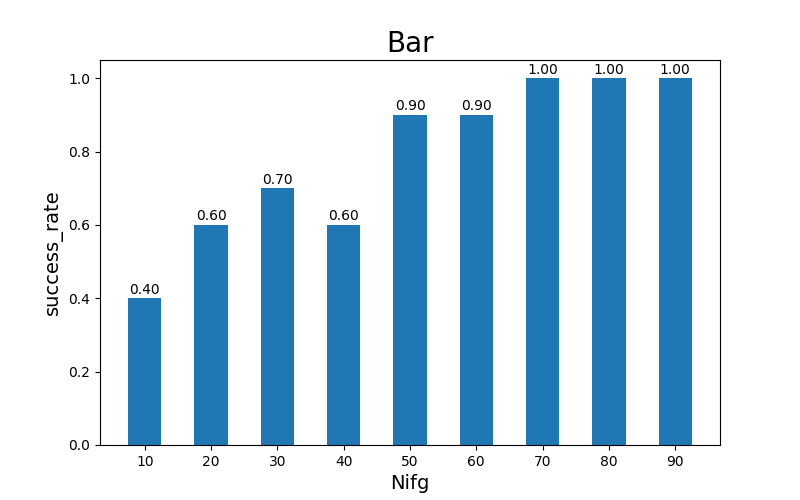
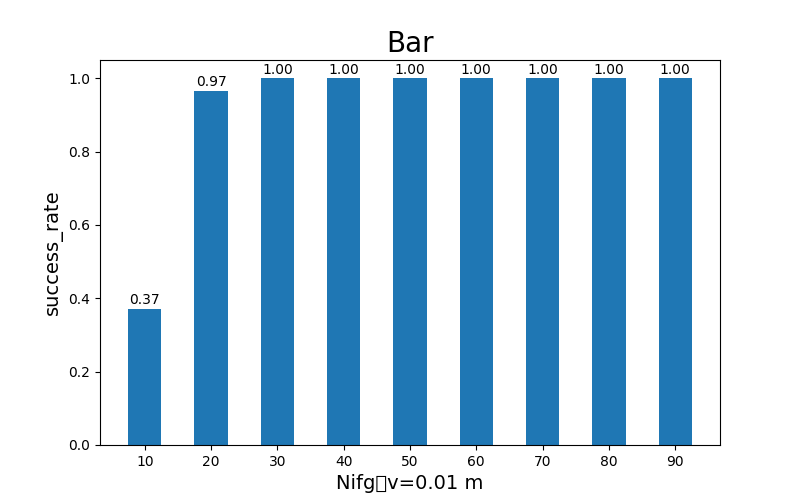
experiment of 'v' about periodogram

diff --git a/template/lab_nifg_v.py b/template/lab_nifg_v.py
@@ -1,0 +1,112 @@
+import scientific_research_with_python_demo.scientific_research_with_python_demo.utils as af
+from scientific_research_with_python_demo.scientific_research_with_python_demo.periodogram_main import periodogram
+import numpy as np
+import time
+from scientific_research_with_python_demo.scientific_research_with_python_demo.data_plot import bar_plot
+
+# Nifg 的实验
+T1 = time.perf_counter()
+
+# ------------------------------------------------
+# initial parameters
+# ------------------------------------------------
+WAVELENGTH = 0.0056  # [unit:m]
+Nifg_orig = np.arange(10, 100, 10)
+v = np.arange(0.01, 0.02, 0.01)  # [mm/year] 减少v，也可以改善估计结果，相当于减少了重访周期
+h_orig = 30  # [m]，整数 30 循环迭代搜索结果有问题
+noise_level = 0.0
+# noise_phase = af.sim_phase_noise(noise_level, Nifg)
+step_orig = np.array([1.0, 0.001])
+std_param = np.array([40, 0.03])
+param_orig = np.array([0, 0])
+param_name = ["height", "velocity"]
+
+# calculate the number of search
+Num_search1 = af.compute_Nsearch(std_param[0], step_orig[0])
+Num_search2 = af.compute_Nsearch(std_param[1], step_orig[1])
+Num_search = np.array([Num_search1, Num_search2])
+
+success_rate = np.zeros(len(Nifg_orig))
+for j in range(len(v)):
+    v_orig = v[j]
+    print("v = ", v_orig)
+    for i in range(len(Nifg_orig)):
+        iteration = 0
+        success = 0
+        Nifg = Nifg_orig[i]
+        print("Nifg = ", Nifg)
+        while iteration < 100:
+            iteration += 1
+            # simulate baseline
+            normal_baseline = np.random.normal(size=(1, Nifg)) * 333
+            # print(normal_baseline)
+            time_baseline = np.arange(1, Nifg + 1, 1).reshape(1, Nifg)  # 减小重访周期 dt 能明显改善结果
+            # print(time_baseline)
+            # normal_baseline = np.array(
+            #     [
+            #         [
+            #             -235.25094786,
+            #             -427.79160933,
+            #             36.37235105,
+            #             54.3278281,
+            #             -87.27348344,
+            #             25.31470275,
+            #             201.85998322,
+            #             92.22902115,
+            #             244.66603228,
+            #             -89.80792772,
+            #             12.17022031,
+            #             -23.71273067,
+            #             -241.58736045,
+            #             -184.03477855,
+            #             -15.97933883,
+            #             -116.39428378,
+            #             -545.53546226,
+            #             -298.89492777,
+            #             -379.2293736,
+            #             289.30702061,
+            #         ]
+            #     ]
+            # )
+            # calculate the input parameters of phase
+            v2ph = af.v_coef(time_baseline).T
+            h2ph = af.h_coef(normal_baseline).T
+            # print(h2ph)
+            par2ph = [h2ph, v2ph]
+            # simulate noise phase
+            noise_phase = af.sim_phase_noise(noise_level, Nifg)
+            # phase_obsearvation simulate
+            phase_obs = af.sim_arc_phase(v_orig, h_orig, noise_level, v2ph, h2ph, noise_phase)
+            # print(phase_obs)
+            # normalize the intput parameters
+            data_set = af.input_parameters(par2ph, step_orig, Num_search, param_orig, param_name)
+            # print(data_set)
+            # print(data_set["velocity"]["Num_search"])
+            # ------------------------------------------------
+            # main loop of searching
+            # ------------------------------------------------
+            count = 0
+            est_param = {}
+            while count <= 1 and data_set["velocity"]["step_orig"] > 1.0e-8 and data_set["height"]["step_orig"] > 1.0e-4:
+                # search the parameters
+                est_param, best = periodogram(data_set, phase_obs)
+                # update the parameters
+                for key in param_name:
+                    data_set[key]["param_orig"] = est_param[key]
+                    # update the step
+                    data_set[key]["step_orig"] *= 0.1
+                    # update the number of search
+                    data_set[key]["Num_search"] = 20
+
+                count += 1
+            if abs(est_param["height"] - h_orig) < 0.5 and abs(est_param["velocity"] - v_orig) < 0.005:
+                success += 1
+            # else:
+            #     print(est_param)
+        # success rate
+        print(success / iteration)
+        success_rate[i] = success / iteration
+    bar_plot(success_rate, Nifg_orig, v_orig, j)
+    print(success_rate)
+T2 = time.perf_counter()
+print("程序运行时间:%s秒" % (T2 - T1))

diff --git a/template/lab_v.py b/template/lab_v.py
@@ -1,8 +1,8 @@
 import scientific_research_with_python_demo.scientific_research_with_python_demo.utils as af
 from scientific_research_with_python_demo.scientific_research_with_python_demo.periodogram_main import periodogram
+import scientific_research_with_python_demo.scientific_research_with_python_demo.data_plot as dp
 import numpy as np
 import time
-from scientific_research_with_python_demo.scientific_research_with_python_demo.data_plot import bar_plot
 
 # Nifg 的实验
 T1 = time.perf_counter()
@@ -11,27 +11,32 @@ T1 = time.perf_counter()
 # initial parameters
 # ------------------------------------------------
 WAVELENGTH = 0.0056  # [unit:m]
-Nifg_orig = np.arange(10, 100, 10)
-v_orig = 0.05  # [mm/year] 减少v，也可以改善估计结果，相当于减少了重访周期
+Nifg = 30
 h_orig = 30  # [m]，整数 30 循环迭代搜索结果有问题
-noise_level = 0
+noise_level = 1.0
 # noise_phase = af.sim_phase_noise(noise_level, Nifg)
-step_orig = np.array([1.0, 0.001])
-std_param = np.array([40, 0.03])
+step_orig = np.array([1.0, 0.0001])
+# std_param = np.array([40, 0.06])
 param_orig = np.array([0, 0])
 param_name = ["height", "velocity"]
+v_orig = np.arange(0.01, 0.1, 0.01)  # [mm/year] 减少v，也可以改善估计结果，相当于减少了重访周期
+# # calculate the number of search
+# Num_search1 = af.compute_Nsearch(std_param[0], step_orig[0])
+# Num_search2 = af.compute_Nsearch(std_param[1], step_orig[1])
+# Num_search = np.array([Num_search1, Num_search2])
 
-# calculate the number of search
-Num_search1 = af.compute_Nsearch(std_param[0], step_orig[0])
-Num_search2 = af.compute_Nsearch(std_param[1], step_orig[1])
-Num_search = np.array([Num_search1, Num_search2])
+success_rate = np.zeros(len(v_orig))
+for i in range(len(v_orig)):
+    v = v_orig[i]
+    std_param = np.array([40, v * 0.6])
+    # calculate the number of search
+    Num_search1 = af.compute_Nsearch(std_param[0], step_orig[0])
+    Num_search2 = af.compute_Nsearch(std_param[1], step_orig[1])
+    Num_search = np.array([Num_search1, Num_search2])
 
-success_rate = np.zeros(len(Nifg_orig))
-for i in range(len(Nifg_orig)):
+    print("v = ", v)
     iteration = 0
     success = 0
-    Nifg = Nifg_orig[i]
-    print("Nifg = ", Nifg)
     while iteration < 100:
         iteration += 1
         # simulate baseline
@@ -73,7 +78,7 @@ for i in range(len(Nifg_orig)):
         # simulate noise phase
         noise_phase = af.sim_phase_noise(noise_level, Nifg)
         # phase_obsearvation simulate
-        phase_obs = af.sim_arc_phase(v_orig, h_orig, noise_level, v2ph, h2ph, noise_phase)
+        phase_obs = af.sim_arc_phase(v, h_orig, noise_level, v2ph, h2ph, noise_phase)
         # print(phase_obs)
         # normalize the intput parameters
         data_set = af.input_parameters(par2ph, step_orig, Num_search, param_orig, param_name)
@@ -96,14 +101,19 @@ for i in range(len(Nifg_orig)):
                 data_set[key]["Num_search"] = 20
 
             count += 1
-        if abs(est_param["height"] - h_orig) < 0.5 and abs(est_param["velocity"] - v_orig) < 0.005:
+        if abs(est_param["height"] - h_orig) < 0.5 and abs(est_param["velocity"] - v) < 0.005:
             success += 1
         # else:
         #     print(est_param)
     # success rate
     print(success / iteration)
     success_rate[i] = success / iteration
-bar_plot(success_rate, Nifg_orig, v_orig, 1)
 print(success_rate)
+
 T2 = time.perf_counter()
 print("程序运行时间:%s秒" % (T2 - T1))
+dp.bar_v(success_rate, v_orig, 4)
+# ambiguty solution
+# ambiguities = af.ambiguity_solution(data_set, 1, best, phase_obs)
+# print(ambiguities)
+# print(data_set)

diff --git a/scientific_research_with_python_demo/data_plot.py b/scientific_research_with_python_demo/data_plot.py
@@ -1,19 +1,55 @@
 import matplotlib.pyplot as plt
 import numpy as np
+import os
 
 
-def bar_plot(success_rate, Nifg):
+def bar_plot(success_rate, Nifg, v, j):
     # 柱状图
-    plt.figure(figsize=(8, 5))
-    plt.rc("font", family="FangSong")
+    plt.figure()
+    # plt.rc("font", family="FangSong")
     plt.bar(Nifg, success_rate, width=5, align="edge")
     for x, y in zip(Nifg, success_rate):
         # ha: horizontal alignment（横向对齐方式）， va: vertical alignment（纵向对齐方式）
         # x+2.5, y+0.05 为标签的坐标
         plt.text(x + 2.5, y + 0.005, "%.2f" % y, ha="center", va="bottom")
     plt.title("Bar", fontsize=20)
-    plt.xlabel("Nifg", fontsize=14)
+    plt.xlabel("Nifg,v='%s' m" % v, fontsize=14)
     plt.ylabel("success_rate", fontsize=14)
     # x轴刻度
     plt.xticks([index + 2.5 for index in Nifg], Nifg)
-    plt.savefig("/data/tests/jiaxing/scientific_research_with_python_demo/scientific_research_with_python_demo/plot/bar_plot.png")
+    plt.ylim(0, 1)
+    ax = plt.gca()
+    # 坐标轴的边框（脊梁）去掉边框
+    ax.spines["right"].set_color("none")
+    ax.spines["top"].set_color("none")
+    figure_save_path = "/data/tests/jiaxing/scientific_research_with_python_demo/scientific_research_with_python_demo/plot"
+    if not os.path.exists(figure_save_path):
+        os.makedirs(figure_save_path)  # 如果不存在目录figure_save_path，则创建
+    plt.savefig(os.path.join(figure_save_path, "demo%s" % j))  # 分别命名图片
+
+
+def bar_v(success_rate, v, j):
+    # 柱状图
+    plt.figure()
+    # plt.rc("font", family="FangSong")
+    plt.bar(v, success_rate, width=0.005, align="edge")
+    for x, y in zip(v, success_rate):
+        # ha: horizontal alignment（横向对齐方式）， va: vertical alignment（纵向对齐方式）
+        # x+2.5, y+0.05 为标签的坐标
+        plt.text(x + 0.0025, y + 0.005, "%.2f" % y, ha="center", va="bottom")
+    # plt.title("Bar", fontsize=20)
+    plt.xlabel("v", fontsize=14)
+    plt.ylabel("success_rate", fontsize=14)
+    # x轴刻度
+    plt.xticks([index + 0.0025 for index in v], v)
+    plt.ylim(0, 1)
+    ax = plt.gca()
+    # 坐标轴的边框（脊梁）去掉边框
+    ax.spines["right"].set_color("none")
+    ax.spines["top"].set_color("none")
+    # x轴刻度保留两位小数
+    ax.xaxis.set_major_formatter(plt.FormatStrFormatter("%.2f"))
+    figure_save_path = "/data/tests/jiaxing/scientific_research_with_python_demo/scientific_research_with_python_demo/plot"
+    if not os.path.exists(figure_save_path):
+        os.makedirs(figure_save_path)  # 如果不存在目录figure_save_path，则创建
+    plt.savefig(os.path.join(figure_save_path, "demo%s" % j))  # 分别命名图片
